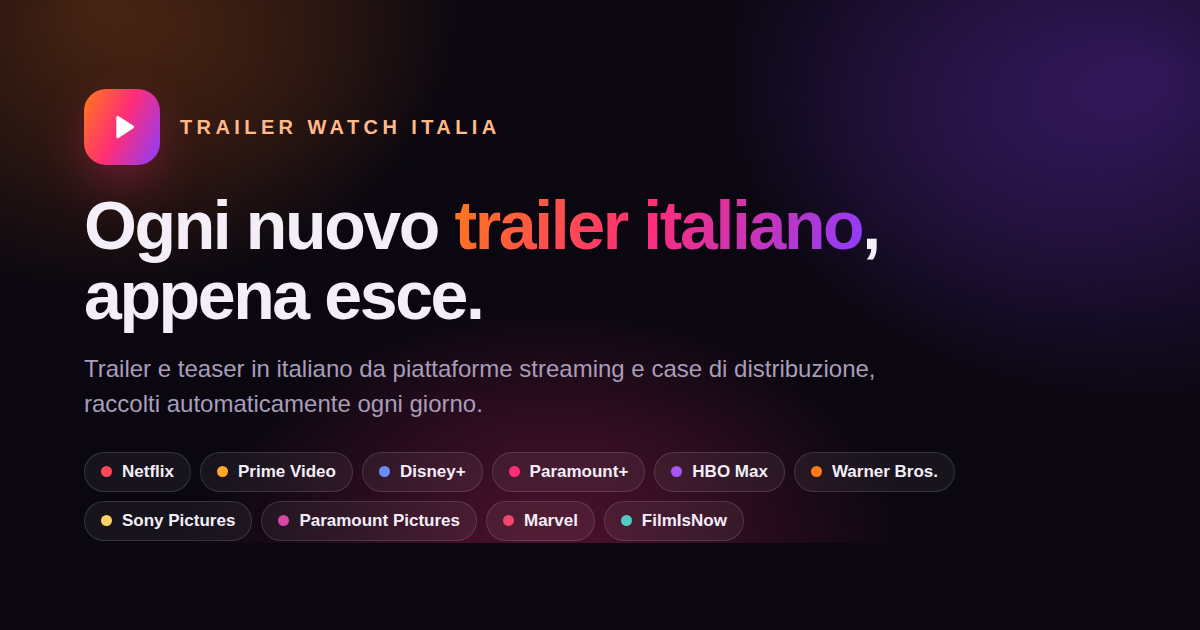
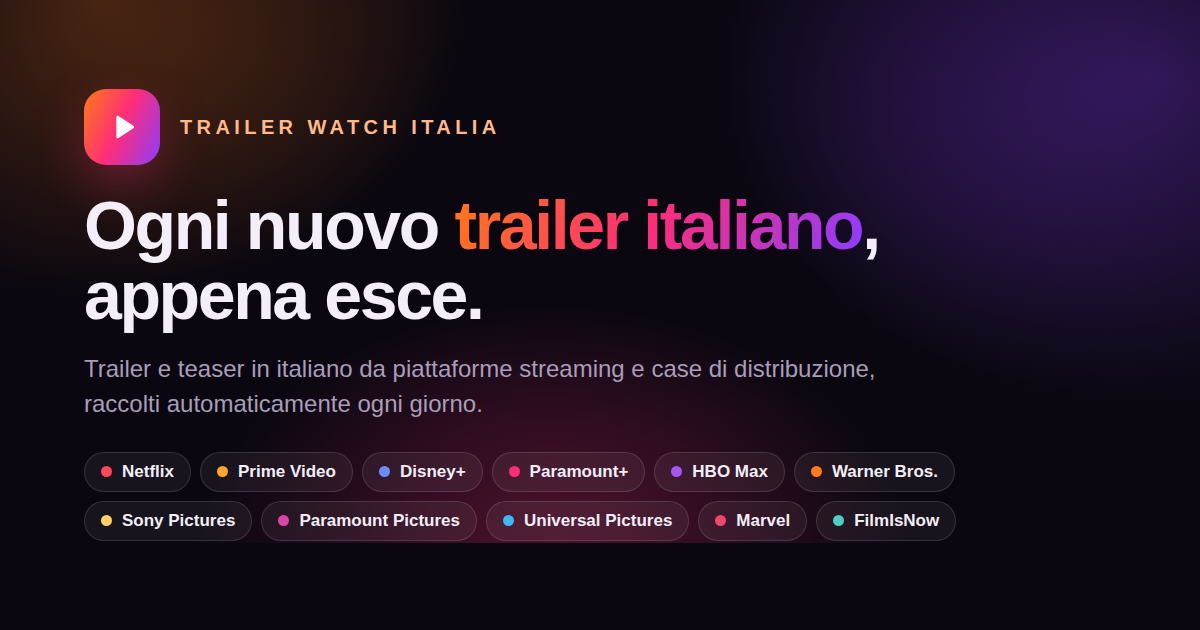
Aggiunge il canale Universal Pictures Italia
Undicesimo canale monitorato: Universal Pictures @UniversalpicturesIt,
con colore dedicato nei filtri e nei badge, immagine Open Graph rigenerata
ed elenco dei canali aggiornato nel README.

Claude-Session: https://claude.ai/code/session_012jUxL6i6BUAcpk266D3XWA

Changed region(s): [[0.4008, 0.8143, 0.8017, 0.8444]]

diff --git a/index.html b/index.html
@@ -533,6 +533,7 @@ footer a:hover{color:var(--fuchsia);}
     "Warner Bros.":"#ff7a18",
     "Sony Pictures":"#ffd166",
     "Paramount Pictures":"#d946a6",
+    "Universal Pictures":"#3fb8f5",
     "Marvel":"#ef476f",
     "FilmIsNow":"#4ecdc4"
   };

diff --git a/scripts/check_trailers.py b/scripts/check_trailers.py
@@ -35,6 +35,7 @@ CHANNELS = [
     {"name": "Warner Bros.", "handle": "WarnerBrosItalia"},
     {"name": "Sony Pictures", "handle": "SonyPicturesIT"},
     {"name": "Paramount Pictures", "handle": "ParamountPicturesItalia"},
+    {"name": "Universal Pictures", "handle": "UniversalpicturesIt"},
     {"name": "Marvel", "handle": "MarvelItaly"},
     # aggregatore: pubblica molti trailer al giorno
     {"name": "FilmIsNow", "handle": "FilmIsNowItalia"},

diff --git a/README.md b/README.md
@@ -49,8 +49,9 @@ solo alle notifiche: è in `.gitignore` e non viene versionato.
 | Netflix `@NetflixItalia` | Warner Bros. `@WarnerBrosItalia` |
 | Prime Video `@PrimeVideoIT` | Sony Pictures `@SonyPicturesIT` |
 | Disney+ `@DisneyPlusIT` | Paramount Pictures `@ParamountPicturesItalia` |
-| Paramount+ `@ParamountPlusIT` | Marvel `@MarvelItaly` |
-| HBO Max `@hbomaxit` | FilmIsNow `@FilmIsNowItalia` |
+| Paramount+ `@ParamountPlusIT` | Universal Pictures `@UniversalpicturesIt` |
+| HBO Max `@hbomaxit` | Marvel `@MarvelItaly` |
+| | FilmIsNow `@FilmIsNowItalia` |
 
 `FilmIsNow` è un aggregatore, non un canale ufficiale: pubblica parecchi video al
 giorno, quindi peserà sui risultati più degli altri. Per toglierlo basta rimuovere la
